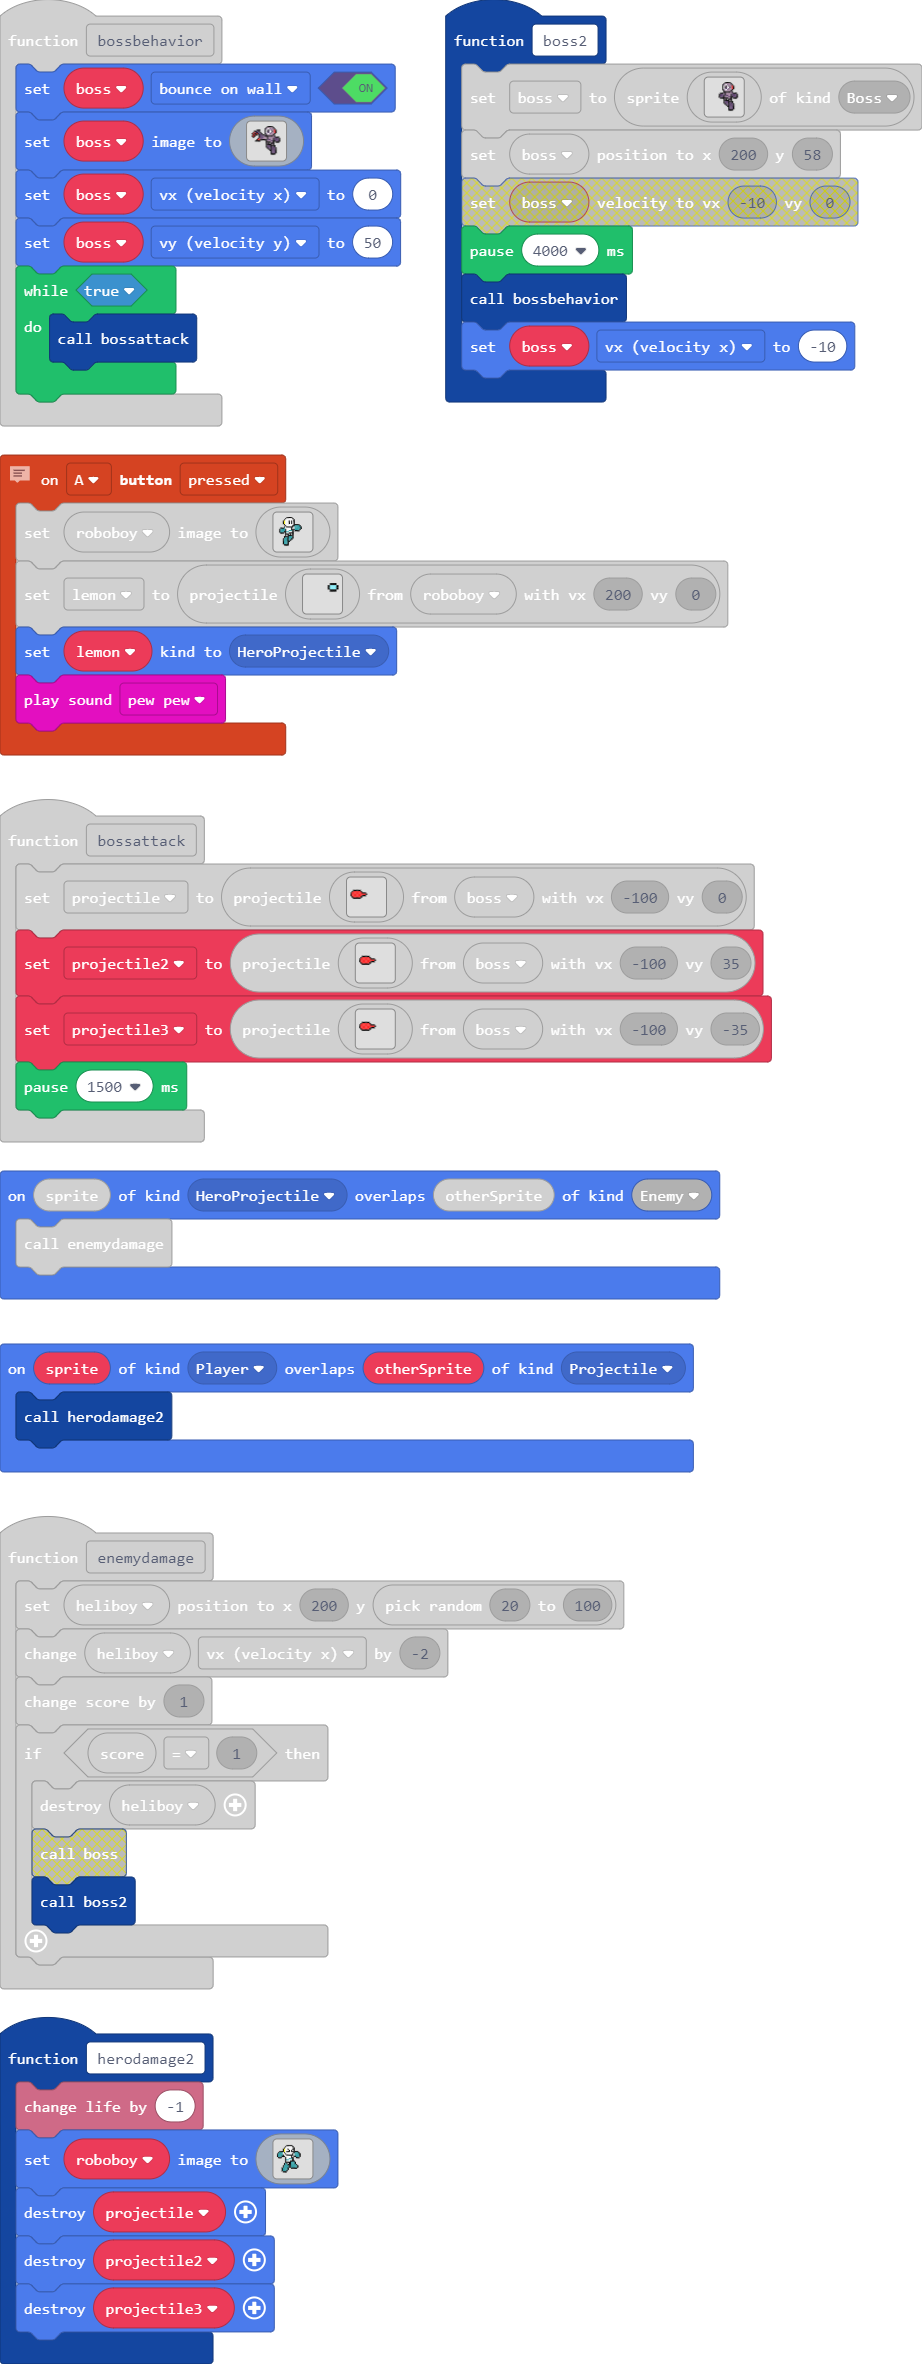
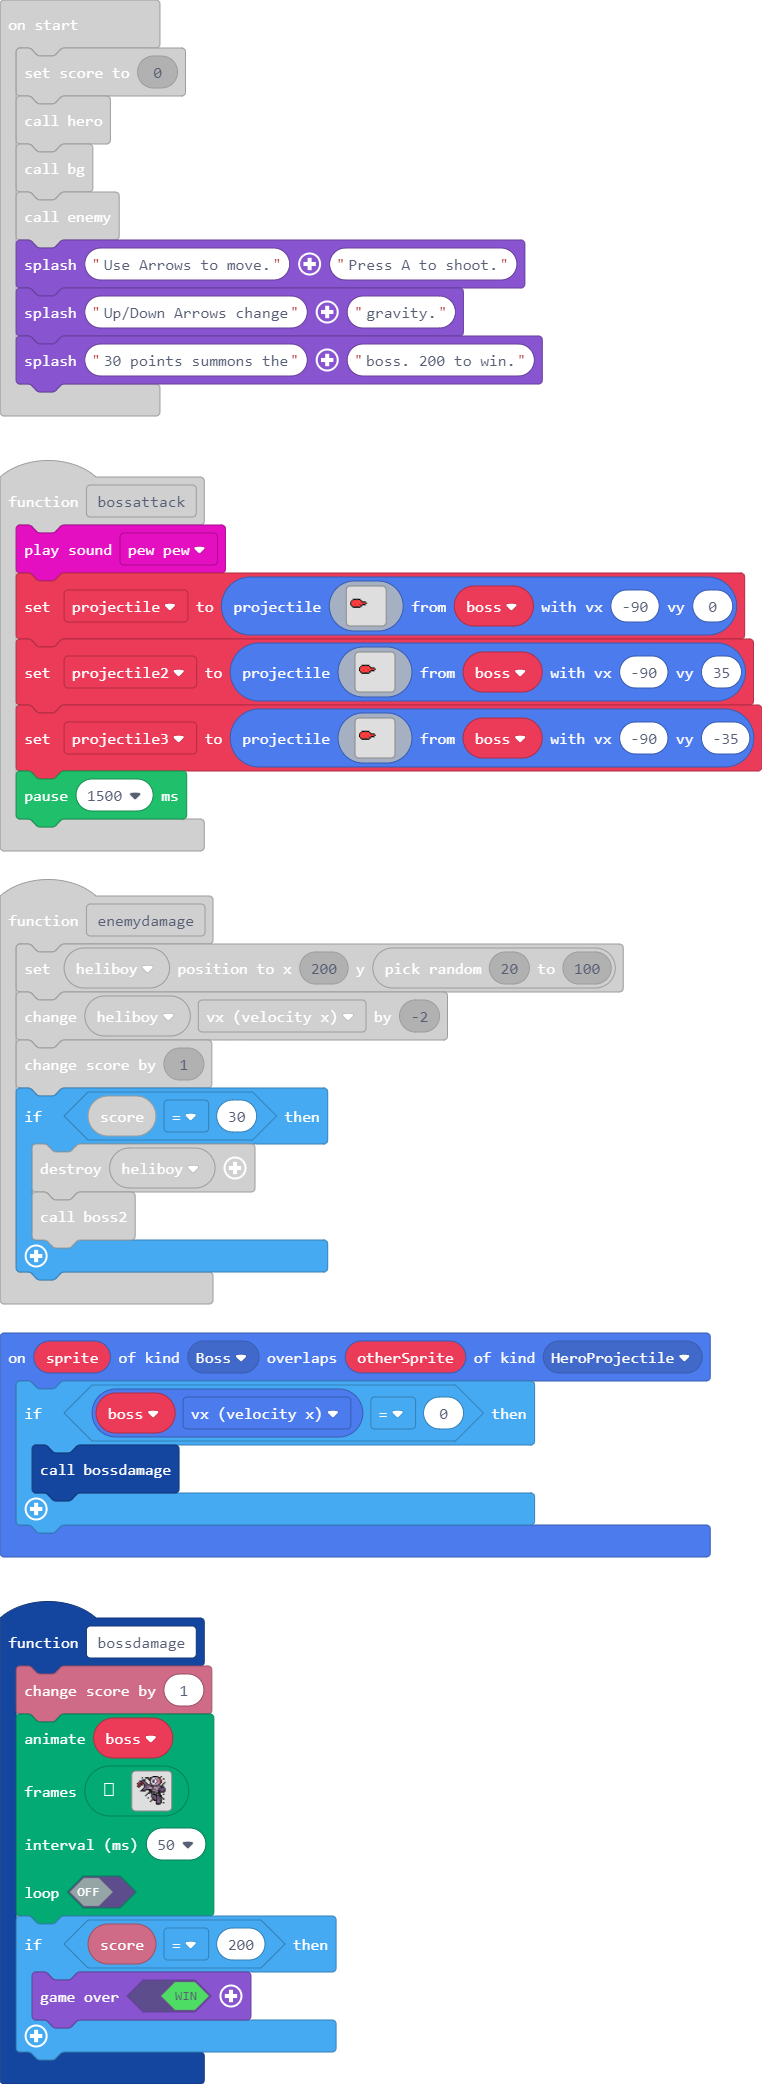
Update main.blocks, main.ts

diff --git a/main.ts b/main.ts
@@ -185,37 +185,117 @@ function bg () {
         ))
     scene.centerCameraAt(100, 0)
 }
-function herodamage2 () {
-    info.changeLifeBy(-1)
-    roboboy.setImage(img`
-. . . . . . . . . . . . . . . . . . . . . . . . . . . 
-. . . . . . . . f f f f f . . . . . . . . . . . . . . 
-. . . . . . . f 1 1 1 1 1 f . . . . . . . . . . . . . 
-. . . . . . f 1 1 1 1 1 1 1 f . . . . . . . . . . . . 
-. . . . . f 5 1 1 f 1 1 1 f f . . . . . . . . . . . . 
-. . . . . f 5 1 1 1 f 1 f 1 f . . . . . . . . . . . . 
-. . f f f f 5 1 f f f 1 f f f f f f . . . . . . . . . 
-. f 6 6 6 1 f 1 1 1 1 1 1 1 f 6 6 6 f . . . . . . . . 
-f 6 6 6 6 1 1 f 1 1 1 1 1 f 1 6 6 6 6 f . . . . . . . 
-f 6 6 6 6 f 1 1 f f f f f f 1 6 6 6 6 f . . . . . . . 
-f 6 6 6 f f f 1 1 1 1 1 f 1 f f 6 6 6 f . . . . . . . 
-. f f f . . . f 1 1 1 1 f f . . f f f . . . . . . . . 
-. . . . . . . f 1 1 6 6 6 f . . . . . . . . . . . . . 
-. . . . . . . f 6 6 1 1 1 f . . . . . . . . . . . . . 
-. . . . . . . f 1 1 1 f f f f . . . . . . . . . . . . 
-. . . . . . . f f f f f 6 6 6 f . . . . . . . . . . . 
-. . . . . . f 6 f 1 f f 6 6 6 f . . . . . . . . . . . 
-. . . . . . f 6 6 f f f 6 6 6 6 f . . . . . . . . . . 
-. . . . . f 6 6 6 6 f f 6 6 6 6 6 f . . . . . . . . . 
-. . . . . f 6 6 6 6 f f 6 6 6 6 6 f . . . . . . . . . 
-. . . . f 6 6 6 6 f . . f f f f f . . . . . . . . . . 
-. . . . f 6 6 6 6 f . . . . . . . . . . . . . . . . . 
-. . . . f 6 6 6 f . . . . . . . . . . . . . . . . . . 
-. . . . . f f f . . . . . . . . . . . . . . . . . . . 
-`)
-    projectile.destroy()
-    projectile2.destroy()
-    projectile3.destroy()
+function bossdamage () {
+    info.changeScoreBy(1)
+    animation.runImageAnimation(
+    boss,
+    [img`
+. . . . . . . . . . . . . . f f f f f . . f . . . . . 
+. . . . . f . . f f f . f f b b b b b f f . . . . . . 
+. . . . . . . . . . f f f c 1 1 c b b b f . . f . . . 
+. . . . . f f f . . . f f 1 b f 1 c b b 2 f . . . . . 
+. . . f f c c f . . . . f 1 f c 1 1 f b 2 f . . . . . 
+. . f 2 c f c c f . . . f 1 c c 1 c b b 2 f . . f . . 
+. f 2 f f 2 f c c f . . f c 1 1 c b b b f . . f . . . 
+. . f 2 f f . f c c f f . f b b b b b f . . f . . . . 
+. f 2 f . . . f c c c c f f f f f f f b f f f . . . . 
+. . f . . . . f c c c b b b f b b b b b c f f f . . . 
+. . . . . . f c c c b b b b f b b b b f c c c c f . . 
+. . . . . f c c f f f f f f c c c b b f c c c c f . . 
+. . . . f f f f . . . f f f b b b c c f f c c c f . . 
+. . . . . . . . . . . f f f f f f b b f f f f f . . . 
+. . . . . . . . . . f f . f b f . f f f f . . . . . . 
+. . . . . . . . . f . . . f f f f f b f f . . f . . . 
+. . . . . . . . f . . . . f c c c f f f f f . . . . . 
+. . . . . . . . . . . . . f c c c f c c f f . . . . . 
+. . . . . . . . . . f . . . f c c f c c c f f . . . . 
+. . . . . . . . . . . . . . f f c f c c c f . f . . . 
+. . . . . . . . . . . . . f . f f f c c c f . . . . . 
+. . . . . . . . . . . . f . . . . f c c c f . . . . . 
+. . . . . . . . . . . . . . . . . f c c c f . f . . . 
+. . . . . . . . . . . . . . . . . f f f f . . . . . . 
+`,img`
+. . . . . . . . . . . . . . f f f f f . . . . . . . . 
+. . . . . . . . . . . . . f b b b b b f . . . . . . . 
+. . . . . . . . . . . . f c 1 1 c b b b f . . . . . . 
+. . . . . f f f . . . . f 1 b f 1 c b b 2 f . . . . . 
+. . . f f c c f . . . . f 1 f c 1 1 f b 2 f . . . . . 
+. . f 2 c f c c f . . . f 1 c c 1 c b b 2 f . . . . . 
+. f 2 f f 2 f c c f . . f c 1 1 c b b b f . . . . . . 
+. . f 2 f f . f c c f f . f b b b b b f . . . . . . . 
+. f 2 f . . . f c c c c f f f f f f f b f . . . . . . 
+. . f . . . . f c c c b b b f b b b b b c f f f . . . 
+. . . . . . f c c c b b b b f b b b b f c c c c f . . 
+. . . . . f c c f f f f f f c c c b b f c c c c f . . 
+. . . . f f f f . . . . . f b b b c c f f c c c f . . 
+. . . . . . . . . . . . . f f f f b b f . f f f . . . 
+. . . . . . . . . . . . . f b f . f f f . . . . . . . 
+. . . . . . . . . . . . . f f f f f b f . . . . . . . 
+. . . . . . . . . . . . . f c c c f f f f . . . . . . 
+. . . . . . . . . . . . . f c c c f c c f . . . . . . 
+. . . . . . . . . . . . . . f c c f c c c f . . . . . 
+. . . . . . . . . . . . . . . f c f c c c f . . . . . 
+. . . . . . . . . . . . . . . . f f c c c f . . . . . 
+. . . . . . . . . . . . . . . . . f c c c f . . . . . 
+. . . . . . . . . . . . . . . . . f c c c f . . . . . 
+. . . . . . . . . . . . . . . . . f f f f . . . . . . 
+`,img`
+. . . . . . . . . . . . . . f f f f f . . f . . . . . 
+. . . . . f . . f f f . f f b b b b b f f . . . . . . 
+. . . . . . . . . . f f f c 1 1 c b b b f . . f . . . 
+. . . . . f f f . . . f f 1 b f 1 c b b 2 f . . . . . 
+. . . f f c c f . . . . f 1 f c 1 1 f b 2 f . . . . . 
+. . f 2 c f c c f . . . f 1 c c 1 c b b 2 f . . f . . 
+. f 2 f f 2 f c c f . . f c 1 1 c b b b f . . f . . . 
+. . f 2 f f . f c c f f . f b b b b b f . . f . . . . 
+. f 2 f . . . f c c c c f f f f f f f b f f f . . . . 
+. . f . . . . f c c c b b b f b b b b b c f f f . . . 
+. . . . . . f c c c b b b b f b b b b f c c c c f . . 
+. . . . . f c c f f f f f f c c c b b f c c c c f . . 
+. . . . f f f f . . . f f f b b b c c f f c c c f . . 
+. . . . . . . . . . . f f f f f f b b f f f f f . . . 
+. . . . . . . . . . f f . f b f . f f f f . . . . . . 
+. . . . . . . . . f . . . f f f f f b f f . . f . . . 
+. . . . . . . . f . . . . f c c c f f f f f . . . . . 
+. . . . . . . . . . . . . f c c c f c c f f . . . . . 
+. . . . . . . . . . f . . . f c c f c c c f f . . . . 
+. . . . . . . . . . . . . . f f c f c c c f . f . . . 
+. . . . . . . . . . . . . f . f f f c c c f . . . . . 
+. . . . . . . . . . . . f . . . . f c c c f . . . . . 
+. . . . . . . . . . . . . . . . . f c c c f . f . . . 
+. . . . . . . . . . . . . . . . . f f f f . . . . . . 
+`,img`
+. . . . . . . . . . . . . . f f f f f . . . . . . . . 
+. . . . . . . . . . . . . f b b b b b f . . . . . . . 
+. . . . . . . . . . . . f c 1 1 c b b b f . . . . . . 
+. . . . . f f f . . . . f 1 b f 1 c b b 2 f . . . . . 
+. . . f f c c f . . . . f 1 f c 1 1 f b 2 f . . . . . 
+. . f 2 c f c c f . . . f 1 c c 1 c b b 2 f . . . . . 
+. f 2 f f 2 f c c f . . f c 1 1 c b b b f . . . . . . 
+. . f 2 f f . f c c f f . f b b b b b f . . . . . . . 
+. f 2 f . . . f c c c c f f f f f f f b f . . . . . . 
+. . f . . . . f c c c b b b f b b b b b c f f f . . . 
+. . . . . . f c c c b b b b f b b b b f c c c c f . . 
+. . . . . f c c f f f f f f c c c b b f c c c c f . . 
+. . . . f f f f . . . . . f b b b c c f f c c c f . . 
+. . . . . . . . . . . . . f f f f b b f . f f f . . . 
+. . . . . . . . . . . . . f b f . f f f . . . . . . . 
+. . . . . . . . . . . . . f f f f f b f . . . . . . . 
+. . . . . . . . . . . . . f c c c f f f f . . . . . . 
+. . . . . . . . . . . . . f c c c f c c f . . . . . . 
+. . . . . . . . . . . . . . f c c f c c c f . . . . . 
+. . . . . . . . . . . . . . . f c f c c c f . . . . . 
+. . . . . . . . . . . . . . . . f f c c c f . . . . . 
+. . . . . . . . . . . . . . . . . f c c c f . . . . . 
+. . . . . . . . . . . . . . . . . f c c c f . . . . . 
+. . . . . . . . . . . . . . . . . f f f f . . . . . . 
+`],
+    50,
+    false
+    )
+    if (info.score() == 200) {
+        game.over(true)
+    }
 }
 function hero () {
     roboboy = sprites.create(img`
@@ -277,6 +357,38 @@ controller.down.onEvent(ControllerButtonEvent.Pressed, function () {
 `)
     roboboy.ay = 50
 })
+function herodamage2 () {
+    info.changeLifeBy(-1)
+    roboboy.setImage(img`
+. . . . . . . . . . . . . . . . . . . . . . . . . . . 
+. . . . . . . . f f f f f . . . . . . . . . . . . . . 
+. . . . . . . f 1 1 1 1 1 f . . . . . . . . . . . . . 
+. . . . . . f 1 1 1 1 1 1 1 f . . . . . . . . . . . . 
+. . . . . f 5 1 1 f 1 1 1 f f . . . . . . . . . . . . 
+. . . . . f 5 1 1 1 f 1 f 1 f . . . . . . . . . . . . 
+. . f f f f 5 1 f f f 1 f f f f f f . . . . . . . . . 
+. f 6 6 6 1 f 1 1 1 1 1 1 1 f 6 6 6 f . . . . . . . . 
+f 6 6 6 6 1 1 f 1 1 1 1 1 f 1 6 6 6 6 f . . . . . . . 
+f 6 6 6 6 f 1 1 f f f f f f 1 6 6 6 6 f . . . . . . . 
+f 6 6 6 f f f 1 1 1 1 1 f 1 f f 6 6 6 f . . . . . . . 
+. f f f . . . f 1 1 1 1 f f . . f f f . . . . . . . . 
+. . . . . . . f 1 1 6 6 6 f . . . . . . . . . . . . . 
+. . . . . . . f 6 6 1 1 1 f . . . . . . . . . . . . . 
+. . . . . . . f 1 1 1 f f f f . . . . . . . . . . . . 
+. . . . . . . f f f f f 6 6 6 f . . . . . . . . . . . 
+. . . . . . f 6 f 1 f f 6 6 6 f . . . . . . . . . . . 
+. . . . . . f 6 6 f f f 6 6 6 6 f . . . . . . . . . . 
+. . . . . f 6 6 6 6 f f 6 6 6 6 6 f . . . . . . . . . 
+. . . . . f 6 6 6 6 f f 6 6 6 6 6 f . . . . . . . . . 
+. . . . f 6 6 6 6 f . . f f f f f . . . . . . . . . . 
+. . . . f 6 6 6 6 f . . . . . . . . . . . . . . . . . 
+. . . . f 6 6 6 f . . . . . . . . . . . . . . . . . . 
+. . . . . f f f . . . . . . . . . . . . . . . . . . . 
+`)
+    projectile.destroy()
+    projectile2.destroy()
+    projectile3.destroy()
+}
 function boss2 () {
     boss = sprites.create(img`
 . . . . . . . . . . . . . . f f f f f . . . . . . . . 
@@ -310,6 +422,7 @@ function boss2 () {
     bossbehavior()
 }
 function bossattack () {
+    music.pewPew.play()
     projectile = sprites.createProjectileFromSprite(img`
 . . . . . . . . . . . . . . . . . . . . . . . . . 
 . . . . . . . . . . . . . . . . . . . . . . . . . 
@@ -327,7 +440,7 @@ f 2 2 2 2 2 2 2 2 f f f . . . . . . . . . . . . .
 . . . . . . . . . . . . . . . . . . . . . . . . . 
 . . . . . . . . . . . . . . . . . . . . . . . . . 
 . . . . . . . . . . . . . . . . . . . . . . . . . 
-`, boss, -100, 0)
+`, boss, -90, 0)
     projectile2 = sprites.createProjectileFromSprite(img`
 . . . . . . . . . . . . . . . . . . . . . . . . . 
 . . . . . . . . . . . . . . . . . . . . . . . . . 
@@ -345,7 +458,7 @@ f 2 2 2 2 2 2 2 2 f f f . . . . . . . . . . . . .
 . . . . . . . . . . . . . . . . . . . . . . . . . 
 . . . . . . . . . . . . . . . . . . . . . . . . . 
 . . . . . . . . . . . . . . . . . . . . . . . . . 
-`, boss, -100, 35)
+`, boss, -90, 35)
     projectile3 = sprites.createProjectileFromSprite(img`
 . . . . . . . . . . . . . . . . . . . . . . . . . 
 . . . . . . . . . . . . . . . . . . . . . . . . . 
@@ -363,7 +476,7 @@ f 2 2 2 2 2 2 2 2 f f f . . . . . . . . . . . . .
 . . . . . . . . . . . . . . . . . . . . . . . . . 
 . . . . . . . . . . . . . . . . . . . . . . . . . 
 . . . . . . . . . . . . . . . . . . . . . . . . . 
-`, boss, -100, -35)
+`, boss, -90, -35)
     pause(1500)
 }
 function herodamage () {
@@ -521,6 +634,11 @@ function enemy () {
     heliboy.setPosition(200, Math.randomRange(20, 100))
     heliboy.setVelocity(-30, 0)
 }
+sprites.onOverlap(SpriteKind.Boss, SpriteKind.HeroProjectile, function (sprite, otherSprite) {
+    if (boss.vx == 0) {
+        bossdamage()
+    }
+})
 sprites.onOverlap(SpriteKind.Player, SpriteKind.Enemy, function (sprite, otherSprite) {
     herodamage()
 })
@@ -531,7 +649,7 @@ function enemydamage () {
     heliboy.setPosition(200, Math.randomRange(20, 100))
     heliboy.vx += -2
     info.changeScoreBy(1)
-    if (info.score() == 1) {
+    if (info.score() == 30) {
         heliboy.destroy()
         boss2()
     }
@@ -579,3 +697,6 @@ info.setScore(0)
 hero()
 bg()
 enemy()
+game.splash("Use Arrows to move.", "Press A to shoot.")
+game.splash("Up/Down Arrows change", "gravity.")
+game.splash("30 points summons the", "boss. 200 to win.")
